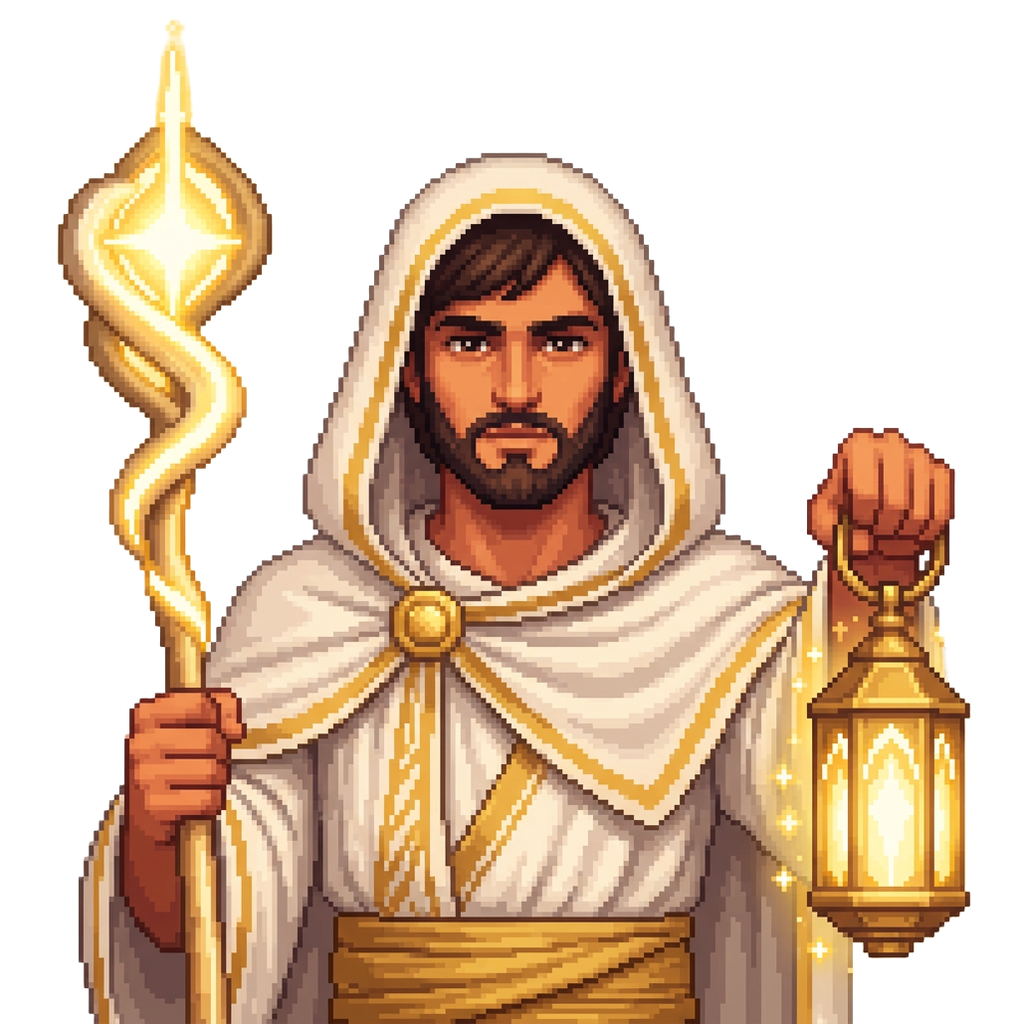
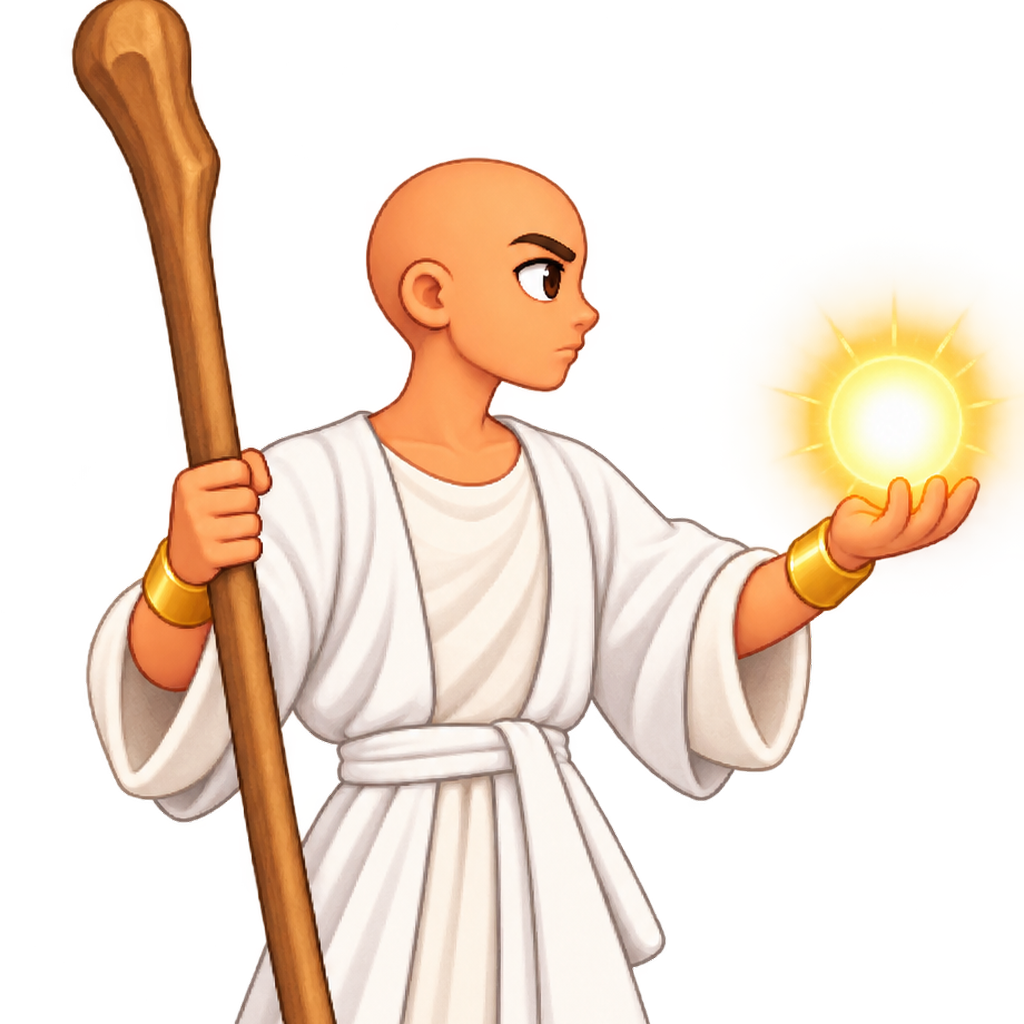
Champions: new art for Nadab, Abihu, Eleazar and Ithamar (sprites, walk feet bands and hand points re-measured, shop portraits cropped from the new art; old files kept as *-supplied / ithamar-v2 / shop-portrait-legacy-*); Eleazar's beam now leaves his light orb and Ithamar's ward takes his shield's 

diff --git a/src/game/allies.ts b/src/game/allies.ts
@@ -29,10 +29,10 @@ import amramBody from "@/assets/ally-amram-clean-body.png";
 import amramAction from "@/assets/ally-amram-clean-action.png";
 import amramStone from "@/assets/champion-amram-stone.png";
 import jethroAsset from "@/assets/ally-jethro-clean.png";
-import ithamarAsset from "@/assets/ally-ithamar-v2.png";
-import nadabAsset from "@/assets/ally-nadab-supplied.png";
-import abihuAsset from "@/assets/ally-abihu-supplied.png";
-import eleazarAsset from "@/assets/ally-eleazar-supplied.png";
+import ithamarAsset from "@/assets/ally-ithamar-v3.png";
+import nadabAsset from "@/assets/ally-nadab-v2.png";
+import abihuAsset from "@/assets/ally-abihu-v2.png";
+import eleazarAsset from "@/assets/ally-eleazar-v2.png";
 import type { NpcId } from "./types";
 
 export type AllyAttackKind =
@@ -217,10 +217,10 @@ export const ALLIES: Record<string, AllyDef> = {
   eliezer: suppliedChampion(champ("eliezer", "Eliezer", "Moses' second son. Throws a piercing spear.", "Exodus 18:4 — The God of my father was mine help.", { ...suppliedSprite(eliezerAsset, 41, 109, 20, 62, 41, { x: 40, y: 38 }), scale: 0.8, sink: 5.5 }, { cooldown: 1.5, range: 280, hitRadius: 12, moveSpeed: 86, attack: "spear" }), eliezerBody, eliezerAction, { x: 17, y: 48 }, 0.45, { url: eliezerSpear, grip: { x: 10.4, y: 40.4 }, angle: -0.307, len: 89, gripFrac: 0.2 }),
   amram: suppliedChampion(champ("amram", "Amram", "Moses' father. Hurls a great stone that cracks the ground.", "Exodus 6:20 — Amram took Jochebed to wife.", { ...suppliedSprite(amramAsset, 42, 114, 35, 51, 43, { x: 39, y: 14 }), scale: 0.8 }, { cooldown: 2.4, range: 260, hitRadius: 70, moveSpeed: 72, attack: "pyramid" }), amramBody, amramAction, { x: 43, y: 49 }, 0.25, { url: amramStone, grip: { x: 38.7, y: 14.1 }, angle: 0, len: 31, gripFrac: 0.5 }),
   jethro: { ...champ("jethro", "Jethro", "Priest of Midian. His staff sends a green mist that turns an enemy to fight for Moses.", "Exodus 18:1 — Jethro, the priest of Midian, Moses' father in law.", { ...suppliedSprite(jethroAsset, 42, 116, 30, 54, 42, { x: 72, y: 15 }), scale: 0.68 }, { cooldown: 1.0, range: 260, hitRadius: 200, moveSpeed: 52, attack: "convert" }), windup: 0.45, action: 0.35 },
-  ithamar: champ("ithamar", "Ithamar", "Aaron's son. Raises protective wards instead of attacking.", "Exodus 38:21 — By the hand of Ithamar.", suppliedSprite(ithamarAsset, 44, 116, 34, 56, 45, { x: 12, y: 15 }), { cooldown: 1.0, range: 400, hitRadius: 46, moveSpeed: 82, attack: "ward" }),
-  nadab: champ("nadab", "Nadab", "Aaron's firstborn. Throws exploding fireballs.", "Leviticus 10:1 — Nadab and Abihu offered strange fire.", suppliedSprite(nadabAsset, 40, 116, 28, 52, 40, { x: 77, y: 37 }), { cooldown: 1.5, range: 280, hitRadius: 60, moveSpeed: 84, attack: "fireball" }),
-  abihu: champ("abihu", "Abihu", "Aaron's second son. Surrounds himself with fire.", "Leviticus 10:1 — Nadab and Abihu offered strange fire.", suppliedSprite(abihuAsset, 40, 116, 28, 52, 40, { x: 75, y: 38 }), { cooldown: 4.0, range: 120, hitRadius: 70, moveSpeed: 90, attack: "firering" }),
-  eleazar: champ("eleazar", "Eleazar", "Aaron's son. Fires continuous beams of light.", "Numbers 20:28 — Moses put Aaron's garments upon Eleazar.", suppliedSprite(eleazarAsset, 42, 116, 30, 54, 42, { x: 75, y: 55 }), { cooldown: 3.0, range: 300, hitRadius: 10, moveSpeed: 80, attack: "beam" }),
+  ithamar: champ("ithamar", "Ithamar", "Aaron's son. Raises protective wards instead of attacking.", "Exodus 38:21 — By the hand of Ithamar.", suppliedSprite(ithamarAsset, 42, 113, 32, 53, 41, { x: 70, y: 45 }), { cooldown: 1.0, range: 400, hitRadius: 46, moveSpeed: 82, attack: "ward" }),
+  nadab: champ("nadab", "Nadab", "Aaron's firstborn. Throws exploding fireballs.", "Leviticus 10:1 — Nadab and Abihu offered strange fire.", suppliedSprite(nadabAsset, 42, 115, 32, 52, 41, { x: 75, y: 35 }), { cooldown: 1.5, range: 280, hitRadius: 60, moveSpeed: 84, attack: "fireball" }),
+  abihu: champ("abihu", "Abihu", "Aaron's second son. Surrounds himself with fire.", "Leviticus 10:1 — Nadab and Abihu offered strange fire.", suppliedSprite(abihuAsset, 42, 115, 32, 52, 41, { x: 75, y: 35 }), { cooldown: 4.0, range: 120, hitRadius: 70, moveSpeed: 90, attack: "firering" }),
+  eleazar: champ("eleazar", "Eleazar", "Aaron's son. Fires continuous beams of light.", "Numbers 20:28 — Moses put Aaron's garments upon Eleazar.", suppliedSprite(eleazarAsset, 42, 115, 32, 53, 41, { x: 75, y: 34 }), { cooldown: 3.0, range: 300, hitRadius: 10, moveSpeed: 80, attack: "beam" }),
 };
 
 export const ALLY_POOL: NpcId[] = Object.keys(ALLIES) as NpcId[];

diff --git a/src/game/championFx.ts b/src/game/championFx.ts
@@ -144,12 +144,23 @@ export function drawChampionFx(ctx: CanvasRenderingContext2D, e: Entity, camX: n
       break;
     }
     case "chbeam": {
+      // Eleazar's light leaves the orb in his hand and ends where the hit line ends.
       const a = d.angle as number, len = d.len as number;
-      ctx.translate(x, y); ctx.rotate(a);
-      ctx.globalAlpha = 0.45 * Math.min(1, life * 4);
-      ctx.fillStyle = "#fff3b0"; ctx.fillRect(0, -(d.w as number) / 2, len, d.w as number);
-      ctx.globalAlpha = 0.9 * Math.min(1, life * 4);
-      ctx.fillStyle = "#ffffff"; ctx.fillRect(0, -2, len, 4);
+      const sx = x + ((d.ox as number) ?? 0), sy = y + ((d.oy as number) ?? 0);
+      const ex = x + Math.cos(a) * len, ey = y + Math.sin(a) * len;
+      const fade = Math.min(1, life * 4);
+      const orb = ctx.createRadialGradient(sx, sy, 0, sx, sy, 16);
+      orb.addColorStop(0, `rgba(255,255,240,${0.95 * fade})`);
+      orb.addColorStop(0.45, `rgba(255,226,120,${0.6 * fade})`);
+      orb.addColorStop(1, "rgba(255,200,60,0)");
+      ctx.fillStyle = orb;
+      ctx.beginPath(); ctx.arc(sx, sy, 16, 0, Math.PI * 2); ctx.fill();
+      ctx.translate(sx, sy); ctx.rotate(Math.atan2(ey - sy, ex - sx));
+      const l = Math.hypot(ex - sx, ey - sy);
+      ctx.globalAlpha = 0.45 * fade;
+      ctx.fillStyle = "#fff3b0"; ctx.fillRect(0, -(d.w as number) / 2, l, d.w as number);
+      ctx.globalAlpha = 0.9 * fade;
+      ctx.fillStyle = "#ffffff"; ctx.fillRect(0, -2, l, 4);
       break;
     }
     case "chaoe": {
@@ -192,8 +203,13 @@ export function drawChampionFx(ctx: CanvasRenderingContext2D, e: Entity, camX: n
     case "chward": {
       const pulse = 0.5 + 0.2 * Math.sin(s.now * 6);
       ctx.globalAlpha = pulse;
+      // Ithamar's shield colours: a blue field with a gold rim and a gold cross on top.
+      ctx.fillStyle = "rgba(40,100,210,0.16)";
+      ctx.beginPath(); ctx.ellipse(x, y - 26, 34, 42, 0, 0, Math.PI * 2); ctx.fill();
       ctx.strokeStyle = "#ffe08a"; ctx.lineWidth = 3;
       ctx.beginPath(); ctx.ellipse(x, y - 26, 34, 42, 0, 0, Math.PI * 2); ctx.stroke();
+      ctx.fillStyle = "#f2c443";
+      ctx.fillRect(x - 1, y - 93, 3, 10); ctx.fillRect(x - 4, y - 90, 9, 3);
       ctx.globalAlpha = 1;
       ctx.fillStyle = "#3a2a10"; ctx.font = "bold 10px monospace"; ctx.textAlign = "center";
       ctx.fillText(String(d.hits ?? ""), x, y - 72);

diff --git a/src/game/championAbilities.ts b/src/game/championAbilities.ts
@@ -305,7 +305,8 @@ export function resolveChampionAttack(state: GameState, ally: Entity, def: AllyD
       const n = evo >= 3 ? 5 : evo >= 2 ? 3 : 1;
       const base = Math.atan2(dir.y, dir.x);
       for (let i = 0; i < n; i++) {
-        h.spawn("chbeam", ally.pos, 1.5, { ownerId: ally.id, angle: base + (i - (n - 1) / 2) * 0.32, len: 300, w: 14, dps: dmg * 1.2, maxTtl: 1.5 });
+        // ox/oy: where the light orb in his hand sits, relative to the beam's hit origin (pos.y - 24).
+        h.spawn("chbeam", ally.pos, 1.5, { ownerId: ally.id, angle: base + (i - (n - 1) / 2) * 0.32, len: 300, w: 14, dps: dmg * 1.2, maxTtl: 1.5, ox: from.x - ally.pos.x, oy: 24 - lift });
       }
       return true;
     }
